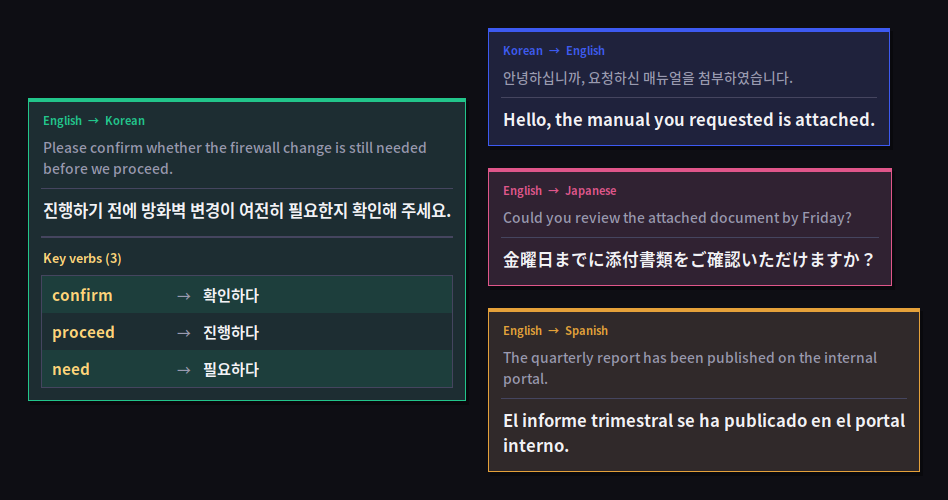
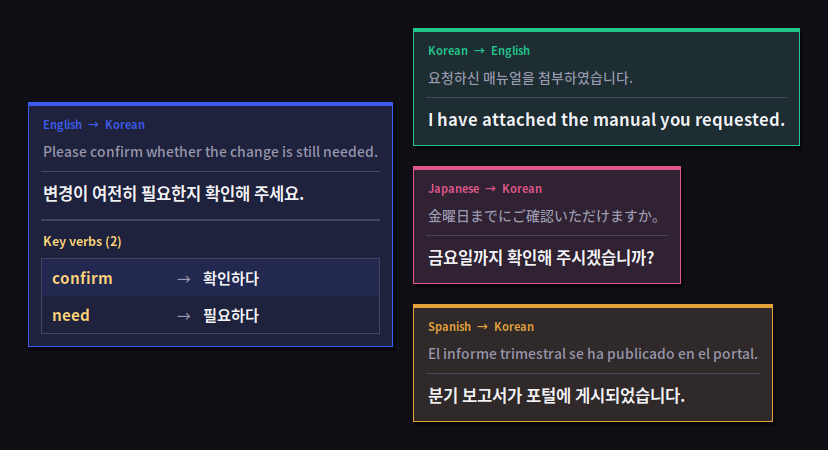
Add files via upload

diff --git a/dragtranslate.py b/dragtranslate.py
@@ -900,17 +900,25 @@ def accent_for(lang_code: str) -> str:
 
 
 def accent_language(source: str, target: str) -> str:
-    """Colour the popup by the *foreign* language of the pair, so English, Spanish
-    and Japanese are each instantly recognisable even though they all translate
-    into the same home language."""
-    home = CONFIG.get("my_language", "ko")
+    """Which language's colour the popup is painted with.
+
+    Incoming (foreign -> my language) uses the *foreign* language's colour, so
+    English, Spanish and Japanese stay distinct even though all three land in the
+    same language. Outgoing (my language -> foreign) uses my own language's
+    colour, so the direction is obvious too: one colour means "I wrote this",
+    every other colour means "this was foreign".
+    """
+    home = _base(CONFIG.get("my_language", "ko"))
+    src, tgt = _base(source), _base(target)
+
     if CONFIG.get("mode") == "fixed":
-        return target if target != "auto" else source
-    if _base(source) == _base(home):
-        return target
-    if _base(target) == _base(home):
-        return source if _base(source) != "auto" else target
-    return target
+        return target if tgt != "auto" else source
+
+    if src == home:
+        return home          # outgoing
+    if src == "auto":
+        return "_default"    # incoming, but the language was not recognised
+    return src               # incoming, from a known language
 
 
 def _hex_to_rgb(h: str) -> tuple[int, int, int]:
@@ -1260,6 +1268,15 @@ class SettingsWindow:
         self.cmb_out = ttk.Combobox(frm, state="readonly", width=30)
         self.cmb_out.grid(row=5, column=1, sticky="w", **pad)
 
+        self.lbl_hint = ttk.Label(
+            frm, foreground="#555555", justify="left",
+            text=("Colours: text you read is shown in the colour of the language it was\n"
+                  "written in. Text you wrote uses your own language's colour, so the\n"
+                  "direction is obvious at a glance."))
+        self.lbl_hint.grid(row=5, column=2, sticky="w", padx=12, pady=6)
+        self.lbl_hint.grid_remove()
+        self.lbl_hint.grid_configure(row=6, column=0, columnspan=3)
+
         # --- fixed mode ---
         self.lbl_s = ttk.Label(frm, text="Translate from")
         self.lbl_s.grid(row=6, column=0, sticky="w", **pad)
@@ -1410,7 +1427,7 @@ class SettingsWindow:
         multi = self.mode.get() == "multi"
         multi_widgets = (self.lbl_home, self.cmb_home, self.btn_home,
                          self.lbl_list, self.list_box, self.add_row,
-                         self.lbl_out, self.cmb_out)
+                         self.lbl_out, self.cmb_out, self.lbl_hint)
         fixed_widgets = (self.lbl_s, self.cmb_s, self.lbl_t, self.cmb_t, self.btn_t)
         for widget in multi_widgets:
             widget.grid() if multi else widget.grid_remove()

diff --git a/README.md b/README.md
@@ -6,7 +6,7 @@ PDF readers, chat apps, terminals, games — anywhere you can select text.
 
 100+ languages · no API key · free and open source · single Python file
 
-![DragTranslate popups showing English to Korean, Korean to English, English to Japanese and English to Spanish translations, each in its own colour](docs/screenshot-popups.png)
+![DragTranslate popups: English, Japanese and Spanish each translated into Korean in their own colour, plus a Korean to English translation in the user's own colour](docs/screenshot-popups.png)
 
 ---
 
@@ -30,9 +30,10 @@ readable Python file you can inspect and modify.
   Korean, and DragTranslate works out which is which on every selection. Nothing to switch.
 - **Anything unlisted still works** — select a language you never configured and it is
   auto-detected and brought into your language anyway.
-- **Per-language colours** — each language gets its own accent colour and subtly tinted
-  popup, so Spanish and Japanese are instantly distinguishable even though both land in
-  your language. Fully customisable.
+- **Per-language colours** — text you read is shown in the colour of the language it was
+  written in, so Spanish and Japanese are instantly distinguishable even though both land
+  in your language. Text *you* wrote uses your own language's colour, so the direction is
+  obvious too. Fully customisable.
 - **Reads well on any screen** — the popup widens rather than growing endlessly downward,
   shrinks to fit, and always lands fully inside the monitor you are working on. Correct on
   multi-monitor setups.
@@ -50,8 +51,8 @@ readable Python file you can inspect and modify.
 
 **Requirements:** Windows 10 or 11. Nothing else — the installer takes care of Python.
 
-1. [Download this repository as a ZIP](../../archive/refs/heads/main.zip) and extract it
-   somewhere permanent, such as `C:\DragTranslate`.
+1. **[Download the latest release](../../releases/latest)** and extract it somewhere
+   permanent, such as `C:\DragTranslate`.
 2. Double-click **`install.bat`**.
 
 That is it. The installer runs hidden and shows a single dialog when it is finished. It
@@ -102,8 +103,10 @@ The settings window opens automatically on first launch, and any time from the t
   language it goes to the outgoing language you pick. A language that is not on the list is
   auto-detected and translated into your language too.
 - **Fixed direction** — always translate from one language (or auto-detect) into another.
-- **Colour...** assigns a colour to the selected language, so you can tell at a glance
-  whether you are looking at Spanish or Japanese.
+- **Colour...** assigns a colour to the selected language. Text you *read* takes the colour
+  of the language it was written in (English blue, Spanish orange, Japanese pink…), while
+  text you *wrote* takes your own language's colour — so both the language and the
+  direction are visible at a glance. The swatch beside **My language** sets that one.
 - **Popup duration**, **text size**, and the **English verb list** are all adjustable.
 - **Debug log** is off by default. It records translated text, so leave it off unless you
   are chasing a problem.
@@ -246,8 +249,8 @@ their licences.
 
 윈도우 10 또는 11이면 됩니다. 파이썬은 설치 파일이 알아서 처리합니다.
 
-1. 이 저장소를 [ZIP으로 내려받아](../../archive/refs/heads/main.zip) `C:\DragTranslate` 같은
-   폴더에 풀어주세요.
+1. **[최신 릴리스를 내려받아](../../releases/latest)** `C:\DragTranslate` 같은 폴더에
+   풀어주세요.
 2. **`install.bat`** 을 더블클릭하세요.
 
 검은 창 없이 조용히 설치되고, 끝나면 안내 창이 하나 뜹니다. 관리자 권한은 필요 없습니다.
@@ -263,7 +266,8 @@ their licences.
 한국어를 드래그했을 때 어떤 언어로 번역할지는 따로 지정합니다.
 
 언어마다 팝업 색을 다르게 지정할 수 있어서, 똑같이 한국어로 번역되더라도 원문이
-스페인어였는지 일본어였는지 색만 보고 구분됩니다.
+스페인어였는지 일본어였는지 색만 보고 구분됩니다. 반대로 내가 쓴 한국어를 번역할 때는
+내 언어의 색으로 떠서 방향도 한눈에 구분됩니다.
 
 번역한 내용은 `vocabulary.db` 파일에 자동으로 쌓여서 나만의 단어장이 됩니다. 영어를
 번역할 때는 주요 동사를 따로 뽑아서 함께 보여줍니다.
